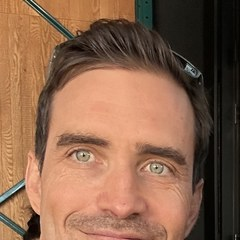
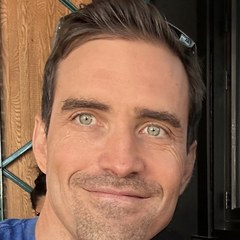
Reposition headshot crop, add LinkedIn button to About page

diff --git a/about/index.html b/about/index.html
@@ -269,7 +269,13 @@ height="0" width="0" style="display:none;visibility:hidden"></iframe></noscript>
         <span class="about-tag">Demand Generation</span>
       </div>
     </div>
-    <img src="/colin-avatar.jpg" alt="Colin H." style="width:120px;height:120px;border-radius:50%;object-fit:cover;object-position:center top;border:2px solid rgba(0,212,255,.3);flex-shrink:0">
+    <div style="display:flex;flex-direction:column;align-items:center;gap:.65rem;flex-shrink:0">
+    <img src="/colin-avatar.jpg" alt="Colin H." style="width:120px;height:120px;border-radius:50%;object-fit:cover;object-position:center 15%;border:2px solid rgba(0,212,255,.3)">
+    <a href="https://www.linkedin.com/in/colin-harbut-52719112/" target="_blank" rel="noopener" style="display:inline-flex;align-items:center;gap:.35rem;font-family:var(--font-mono);font-size:.58rem;font-weight:700;color:#0077b5;text-decoration:none;border:1px solid rgba(0,119,181,.3);border-radius:4px;padding:.25rem .6rem;background:rgba(0,119,181,.08);white-space:nowrap;transition:all .15s" onmouseover="this.style.background='rgba(0,119,181,.16)'" onmouseout="this.style.background='rgba(0,119,181,.08)'">
+      <svg width="12" height="12" viewBox="0 0 24 24" fill="#0077b5" xmlns="http://www.w3.org/2000/svg"><path d="M20.447 20.452h-3.554v-5.569c0-1.328-.027-3.037-1.852-3.037-1.853 0-2.136 1.445-2.136 2.939v5.667H9.351V9h3.414v1.561h.046c.477-.9 1.637-1.85 3.37-1.85 3.601 0 4.267 2.37 4.267 5.455v6.286zM5.337 7.433a2.062 2.062 0 0 1-2.063-2.065 2.064 2.064 0 1 1 2.063 2.065zm1.782 13.019H3.555V9h3.564v11.452zM22.225 0H1.771C.792 0 0 .774 0 1.729v20.542C0 23.227.792 24 1.771 24h20.451C23.2 24 24 23.227 24 22.271V1.729C24 .774 23.2 0 22.222 0h.003z"/></svg>
+      Connect on LinkedIn
+    </a>
+  </div>
   </div>
 
   <div class="article-body">
